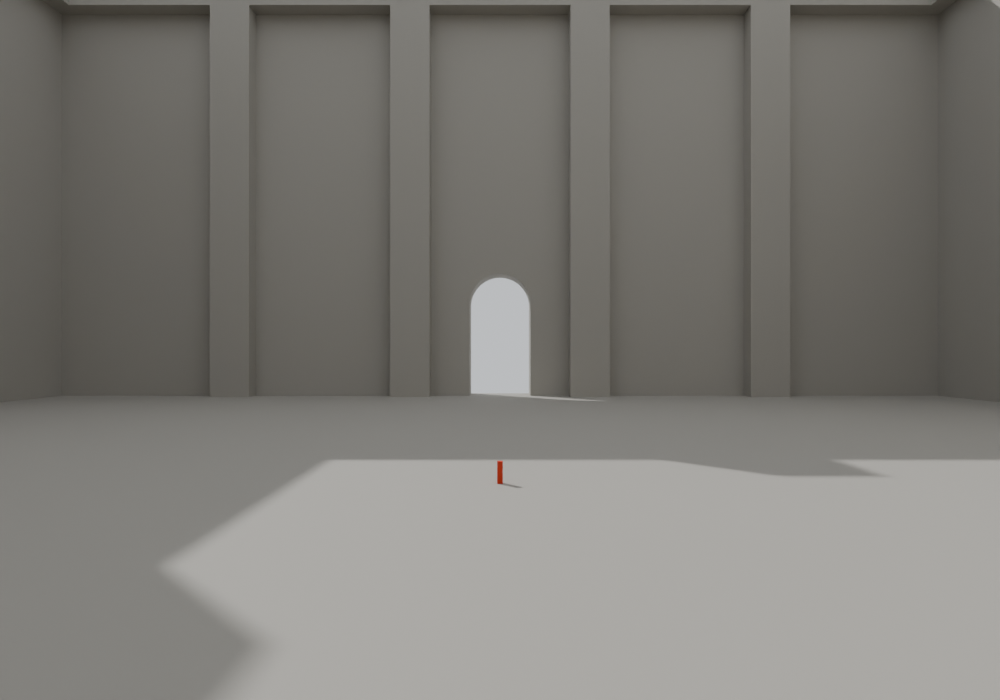
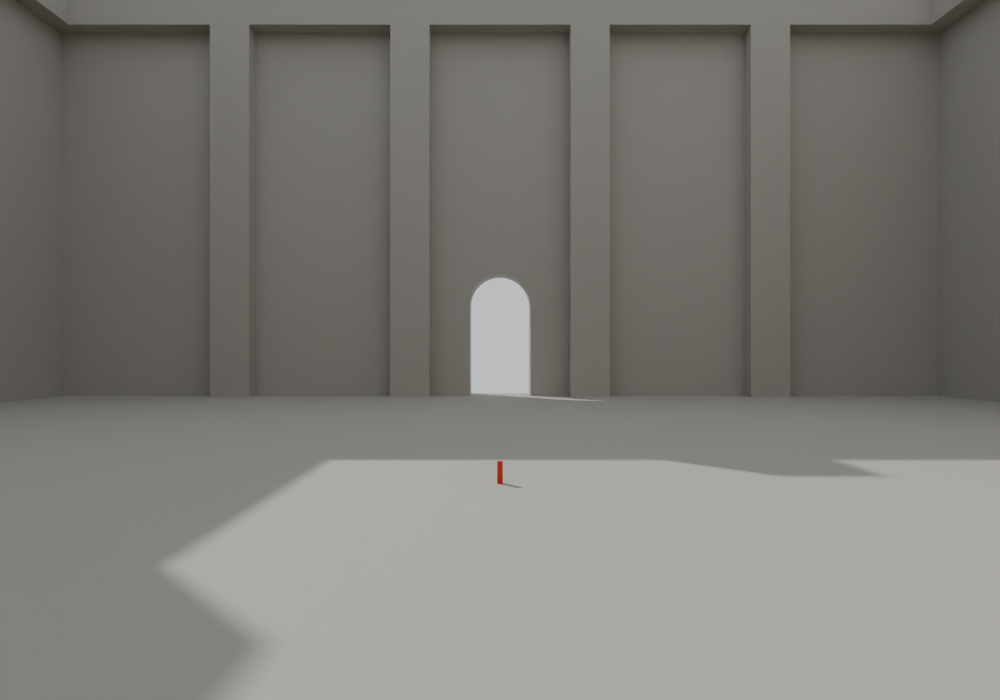
Make interior ledge 10 m tall (105-115 m), keeping 5 m depth
Claude-Session: https://claude.ai/code/session_01SWXPy6War9Jf9BhkNrgaL1

Changed region(s): [[0.248, 0.0, 1.0, 0.06], [0.0, 0.0, 0.217, 0.06]]

diff --git a/Tools/models/grande_salle_blender.py b/Tools/models/grande_salle_blender.py
@@ -106,10 +106,10 @@ for i in range(1, NCOL + 1):
         kp += 1; c = bpy.data.objects.new("Pont_%02d" % kp, me_pont); c.location = (x, y, H); c.rotation_euler.z = math.radians(rz)
         col_pont.objects.link(c)
 print("ponts :", kp, "| longueur", L, "m, épaisseur", DEP, "m")
-# corniche : bande de 5 m de saillie et 5 m d'épaisseur contre le mur intérieur, 10 m sous le haut (110 -> 115 m), tout autour
+# corniche : bande de 5 m de saillie et 10 m de haut contre le mur intérieur, 10 m sous le haut (105 -> 115 m), tout autour
 # découpée entre les colonnes (rien n'est fusionné) ; les carrés d'angle appartiennent aux murs avant et arrière
 col_cor = bpy.data.collections.new("Corniche"); scn.collection.children.link(col_cor)
-zc1 = H - 10.0; zc0 = zc1 - DEP
+zc1 = H - 10.0; zc0 = zc1 - 10.0
 bords = [-b] + [e for i in range(1, NCOL + 1) for e in (-b + i * pas - COL / 2, -b + i * pas + COL / 2)] + [b]
 kc = 0
 for j in range(NCOL + 1):
